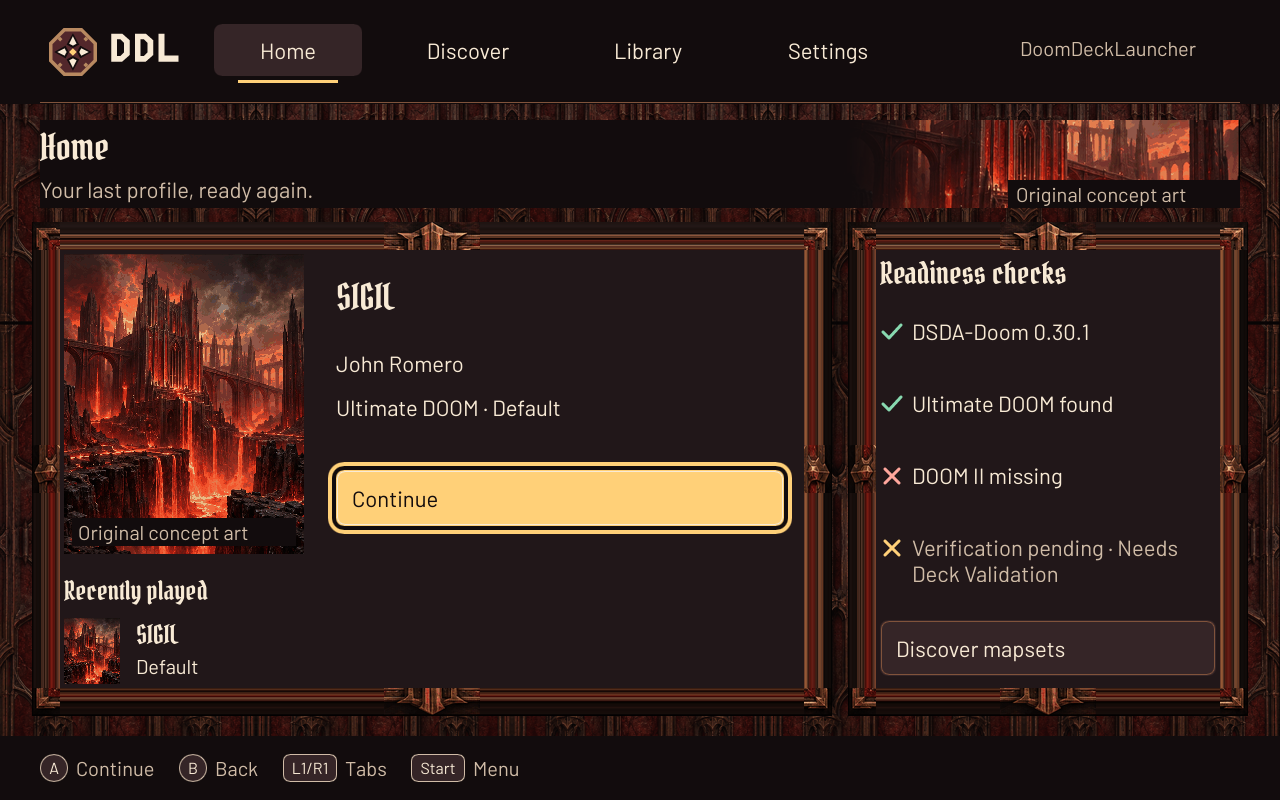
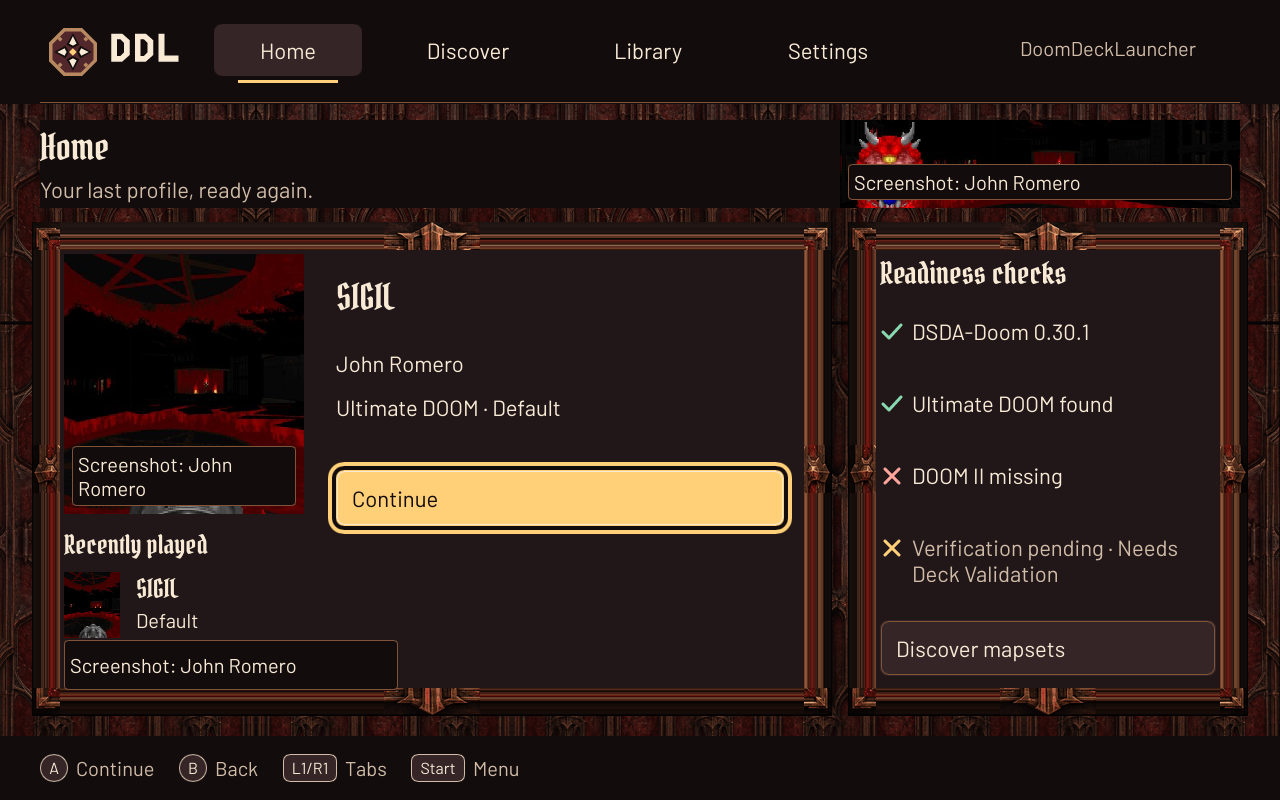
Record screenshot UI verification and refresh README captures

Changed region(s): [[0.0312, 0.3125, 0.25, 0.875], [0.6562, 0.125, 0.9688, 0.2812]]

diff --git a/docs/reports/023-mapset-screenshots.md b/docs/reports/023-mapset-screenshots.md
@@ -143,3 +143,128 @@ passes.
    a trivial conflict against the spec 022 worker at worst.
 2. I ticked **A1** and **A3** in `docs/specs/023-mapset-screenshots.md`; **A2** (UI) and **A4**
    (Deck) are left for their owners.
+
+## Phase B — show bundled screenshots in the UI
+
+**Status:** R3 / A2 complete; final fmt, clippy and workspace tests pass. A4 remains open.
+
+### Implementation (R3)
+
+- Home (hero and history), Discover and Library cards, mapset detail, and the art band now
+  resolve the recipe's **first declared screenshot** and show `Screenshot: <credit>`. Images
+  use `image-fit: cover` with explicit horizontal/vertical centre alignment. No runtime
+  network or filesystem image loading is needed. Detail keeps the same first image; a
+  carousel or additional controller action would add little value here.
+- Bone text on opaque `Tokens.deep` plates, with bronze borders, protects the caption from
+  bright skies and busy imagery. Caption plates size themselves to the wrapped text, including
+  the longer credits on the narrower Home hero. Home history uses a separate two-line plate below
+  each small thumbnail; its layout was tightened to keep the plate inside the carved frame.
+- Missing screenshot metadata, unknown/unbundled assets, and future recipes without bundled
+  files retain the painted cover and `Original concept art` caption. Existing catalog updates
+  cannot turn an arbitrary remote asset path into a filesystem image load.
+- Both caption strings live in `ui/wiring-strings.slint` and use `@tr`; the screenshot credit
+  is formatted through the existing Rust `wiring_copy::value` path. The temporary module-wide
+  `allow(dead_code)` in `screenshots.rs` is removed.
+- `docs/design/ui.md` describes the screenshot and fallback treatment. No catalog, screenshot
+  JPEG, source manifest, Settings or catalog-update implementation was edited.
+
+### Embedding choice
+
+`build.rs` extends phase A's sorted directory index with an **OUT_DIR-generated Slint global**,
+imported as `@screenshots` using Slint's library-path configuration. Its deterministic lookup
+maps the indexed asset paths to literal `@image-url` expressions. Slint's existing
+`EmbedResourcesKind::EmbedFiles` embeds and decodes the images using the support already in the
+application; Rust sends the checked asset key and translated credit through `ViewNode` and the
+band properties. Recipe metadata, rather than directory order, chooses the first image. The
+lookup includes the remaining bundled shots so reordering a recipe works without another
+hand-maintained mapping. Generated files are only rewritten when their contents change to
+avoid retriggering Cargo through the generated Slint import.
+
+**New dependencies: none.** In particular, no additional image-decoding crate was added.
+
+### Requirement coverage
+
+The existing off-screen software-renderer journey now asserts that all thirteen embedded
+recipes resolve to a 640×360 Slint image, the exact translated caption, and matching card,
+detail and art-band properties. It writes one focused Discover render per recipe, covering
+all scroll positions, plus bright-sky, long Home credit and metadata-absent fallback fixtures.
+It also checks recipe screenshot reordering and an unbundled asset fallback. Existing Home
+and Library journeys assert their image nodes carry screenshots and captions. These are
+render-only recipe mutations; no live catalog or user state is changed.
+
+### Headless visual review (A2)
+
+Off-screen PNGs are under `target/headless/` (not committed). I inspected all thirteen cards
+across the focused Discover renders, including these full rows:
+
+- `023-discover-ancient-aliens.png` — Alien Vendetta, Ancient Aliens, AUGER;ZENITH.
+- `023-discover-back-to-saturn-x-e1.png` — both Back to Saturn X episodes, Eviternity.
+- `023-discover-eviternity-ii.png` — Eviternity II, Going Down, Scythe.
+- `023-discover-sigil.png` — SIGIL, SIGIL II, Sunlust.
+- `023-discover-valiant.png` — Valiant.
+
+I also inspected the detail/band compositions (`010-mapset-detail.png`,
+`023-detail-ancient-aliens.png`, `023-detail-auger-zenith.png`), Home and Library cards
+(`010-home-continue.png`, `010-library.png`), and `023-discover-fallback.png`. The explicit
+`023-discover-white-sky.png` / `023-detail-white-sky.png` fixture reorders Ancient Aliens' two
+shots so its white-cloud image stress-tests the same plate; shipped recipes still use their
+first declared shot. `023-home-long-credit.png` checks the longer Back to Saturn X credit on
+both the narrow hero and the history row. Captions remain readable against the bright sky,
+neon/fire and dark scenes, and the complete long credit stays inside its plate.
+
+No visible window was opened and no screen was captured. All images came from Slint's
+software renderer. A2 is ticked; A4 remains **Needs Deck Validation**.
+
+### Final verification
+
+Validated on macOS arm64. `main` at `aca466b` was merged cleanly and checked again before
+completion (already up to date). Linux CI and the physical Deck were not run here. No new
+dependencies were added.
+
+All **430 tests** pass: 82 launcher tests, 7 launcher integration tests, 322 core tests,
+16 process/smoke tests and 3 doctests. The existing headless journey contains the new screenshot
+assertions and render fixtures, so no second UI platform runs concurrently in the test process.
+Command tails:
+
+```text
+$ cargo fmt --all --check
+(exit 0; no output)
+
+$ cargo clippy --workspace --all-targets -- -D warnings
+    Checking ddl v0.0.4 (.../crates/ddl)
+    Finished `dev` profile [unoptimized + debuginfo] target(s) in 3.62s
+
+$ cargo test --workspace
+...
+test result: ok. 82 passed; 0 failed; 0 ignored; 0 measured; 0 filtered out; finished in 122.59s
+...
+test result: ok. 322 passed; 0 failed; 0 ignored; 0 measured; 0 filtered out; finished in 0.87s
+...
+test result: ok. 16 passed; 0 failed; 0 ignored; 0 measured; 0 filtered out; finished in 0.31s
+...
+test result: ok. 3 passed; 0 failed; 0 ignored; 0 measured; 0 filtered out; finished in 0.00s
+```
+
+README images were regenerated with the documented spec 016 R5 command and all four were
+visually inspected. They also byte-match the optimized PNGs from the independent final
+workspace run (`DDL_HEADLESS_DIR="$PWD/target/headless/workspace" cargo test --workspace`):
+
+```text
+$ python3 scripts/readme-screenshots.py
+...
+docs/screenshots/home.png: 1280x800, 337,259 bytes
+docs/screenshots/discover.png: 1280x800, 487,551 bytes
+docs/screenshots/play-setup.png: 1280x800, 330,100 bytes
+docs/screenshots/mapset-detail.png: 1280x800, 542,884 bytes
+```
+
+### Remaining observations
+
+- Physical Deck sharpness/readability is still A4, outside this phase's acceptance.
+- Existing long mapset titles can clip in Home/Discover text slots (visible in the Back to
+  Saturn X render fixture); the screenshot credits themselves wrap fully. This predates R3
+  and was left outside the screenshot change.
+- Proposed documentation follow-up outside this task's ownership: the guide's FAQ
+  (`docs/steam-deck-guide.md`, “Are the screenshots actual gameplay?”) still calls the card
+  images original mood art. It should distinguish the off-screen launcher UI captures from
+  their now-real, credited in-game mapset images.

diff --git a/docs/design/ui.md b/docs/design/ui.md
@@ -18,7 +18,8 @@ readability, input repeat/hotplug, game handoff, pistol start behavior and SIGIL
 - Readable at handheld distance on the 7-inch 1280×800 LCD: 22 px body, short lines, generous gaps.
 - Clear over clever: name the required game, explain blockers and show the consequence of toggles.
 - DOOM atmosphere through charcoal, ember accents and strong hierarchy; no texture behind text,
-  copyrighted artwork, franchise logos or bitmap display fonts. Layout-reference art says “cover art”; visual concepts use original abstract generated imagery.
+  franchise logos or bitmap display fonts. Bundled, credited mapset screenshots follow D-024;
+  original painted art remains the fallback.
 - Progressive disclosure: title and Play first; files, compatibility and diagnostics one action away.
 - Honest confidence: “Verified” requires recipe evidence for the selected engine and combination.
   Distinguish “Partially checked”, “Not verified” and “Incompatible”; never rely on color alone.
@@ -50,7 +51,14 @@ reduced opacity. Unavailable controls give explicit reasons and preserve readabl
 
 Original carved oxblood wall repeats seamlessly, visibly surrounding smooth information panels.
 Pre-rendered bronze / red-stone frames use 28 px nine-slice borders, preserving corners at all
-panel sizes. Dedicated top art bands and cover regions carry “Original concept art” plaques.
+panel sizes. Cards (Home, Discover and Library), detail and the top art band show the recipe's
+first bundled screenshot, centred and cropped to fill (spec 023, D-024). A bone-coloured
+“Screenshot: <credit>” caption sits on an opaque near-black plate with a bronze edge; it wraps
+rather than truncating the credit, including over bright skies. Small Home history thumbnails
+place the credit just below the image on the opaque Home panel. A recipe without a bundled
+screenshot keeps its painted cover and “Original concept art” caption. Images are embedded by
+Slint at build time, so browsing requires no network. Detail repeats the first shot rather than
+adding a carousel or a new controller action.
 The original angular broken-circle emblem pairs with a clearly legible bone Barlow DDL logotype;
 no franchise lettering, sprites or copied textures. See `visual-v2/ember-cathedral/prompt.txt`
 for the retained original generation prompt and `crates/ddl/ui/assets/ember/build_assets.py`
@@ -162,7 +170,7 @@ Purpose: browse curated categories without typing. **Category strip (spec 015):*
 each tag of `catalog/tags.toml` that at least one recipe uses, in the vocabulary's `order`, then
 “Favorites”. A 3-column grid contains cover placeholders, title, creators, required game + IWAD
 status, install state, a favorite star and at most two tag chips (the open category's tag first).
-Focused card gets ring; no text over art. Select opens detail.
+Focused card gets ring; titles stay below the image and only the credit plate overlays it. Select opens detail.
 Bindings: **Up** from the first grid row enters the strip at the selected chip; **Left/Right** on
 the strip moves the chip and switches the category at once (no wrap); **Down** from the strip
 enters the first card; **L2/R2** (keyboard `[` `]`) switch to the previous/next category from the

diff --git a/docs/specs/023-mapset-screenshots.md b/docs/specs/023-mapset-screenshots.md
@@ -43,7 +43,7 @@ Runtime screenshot downloads. User-supplied images. Videos.
 
 - [x] **A1** (R1, R2, R4) — all 13 recipes have at least one screenshot with source/credit;
   lint tests for missing asset, oversize, missing credit; CONTRIBUTING updated.
-- [ ] **A2** (R3) — headless renders: Discover (all cards with screenshots), detail and art band
+- [x] **A2** (R3) — headless renders: Discover (all cards with screenshots), detail and art band
   with the credit caption.
 - [x] **A3** — fmt, clippy `-D warnings`, tests green.
 - [ ] **A4** — *Needs Deck Validation:* screenshots look sharp on the Deck panel.
